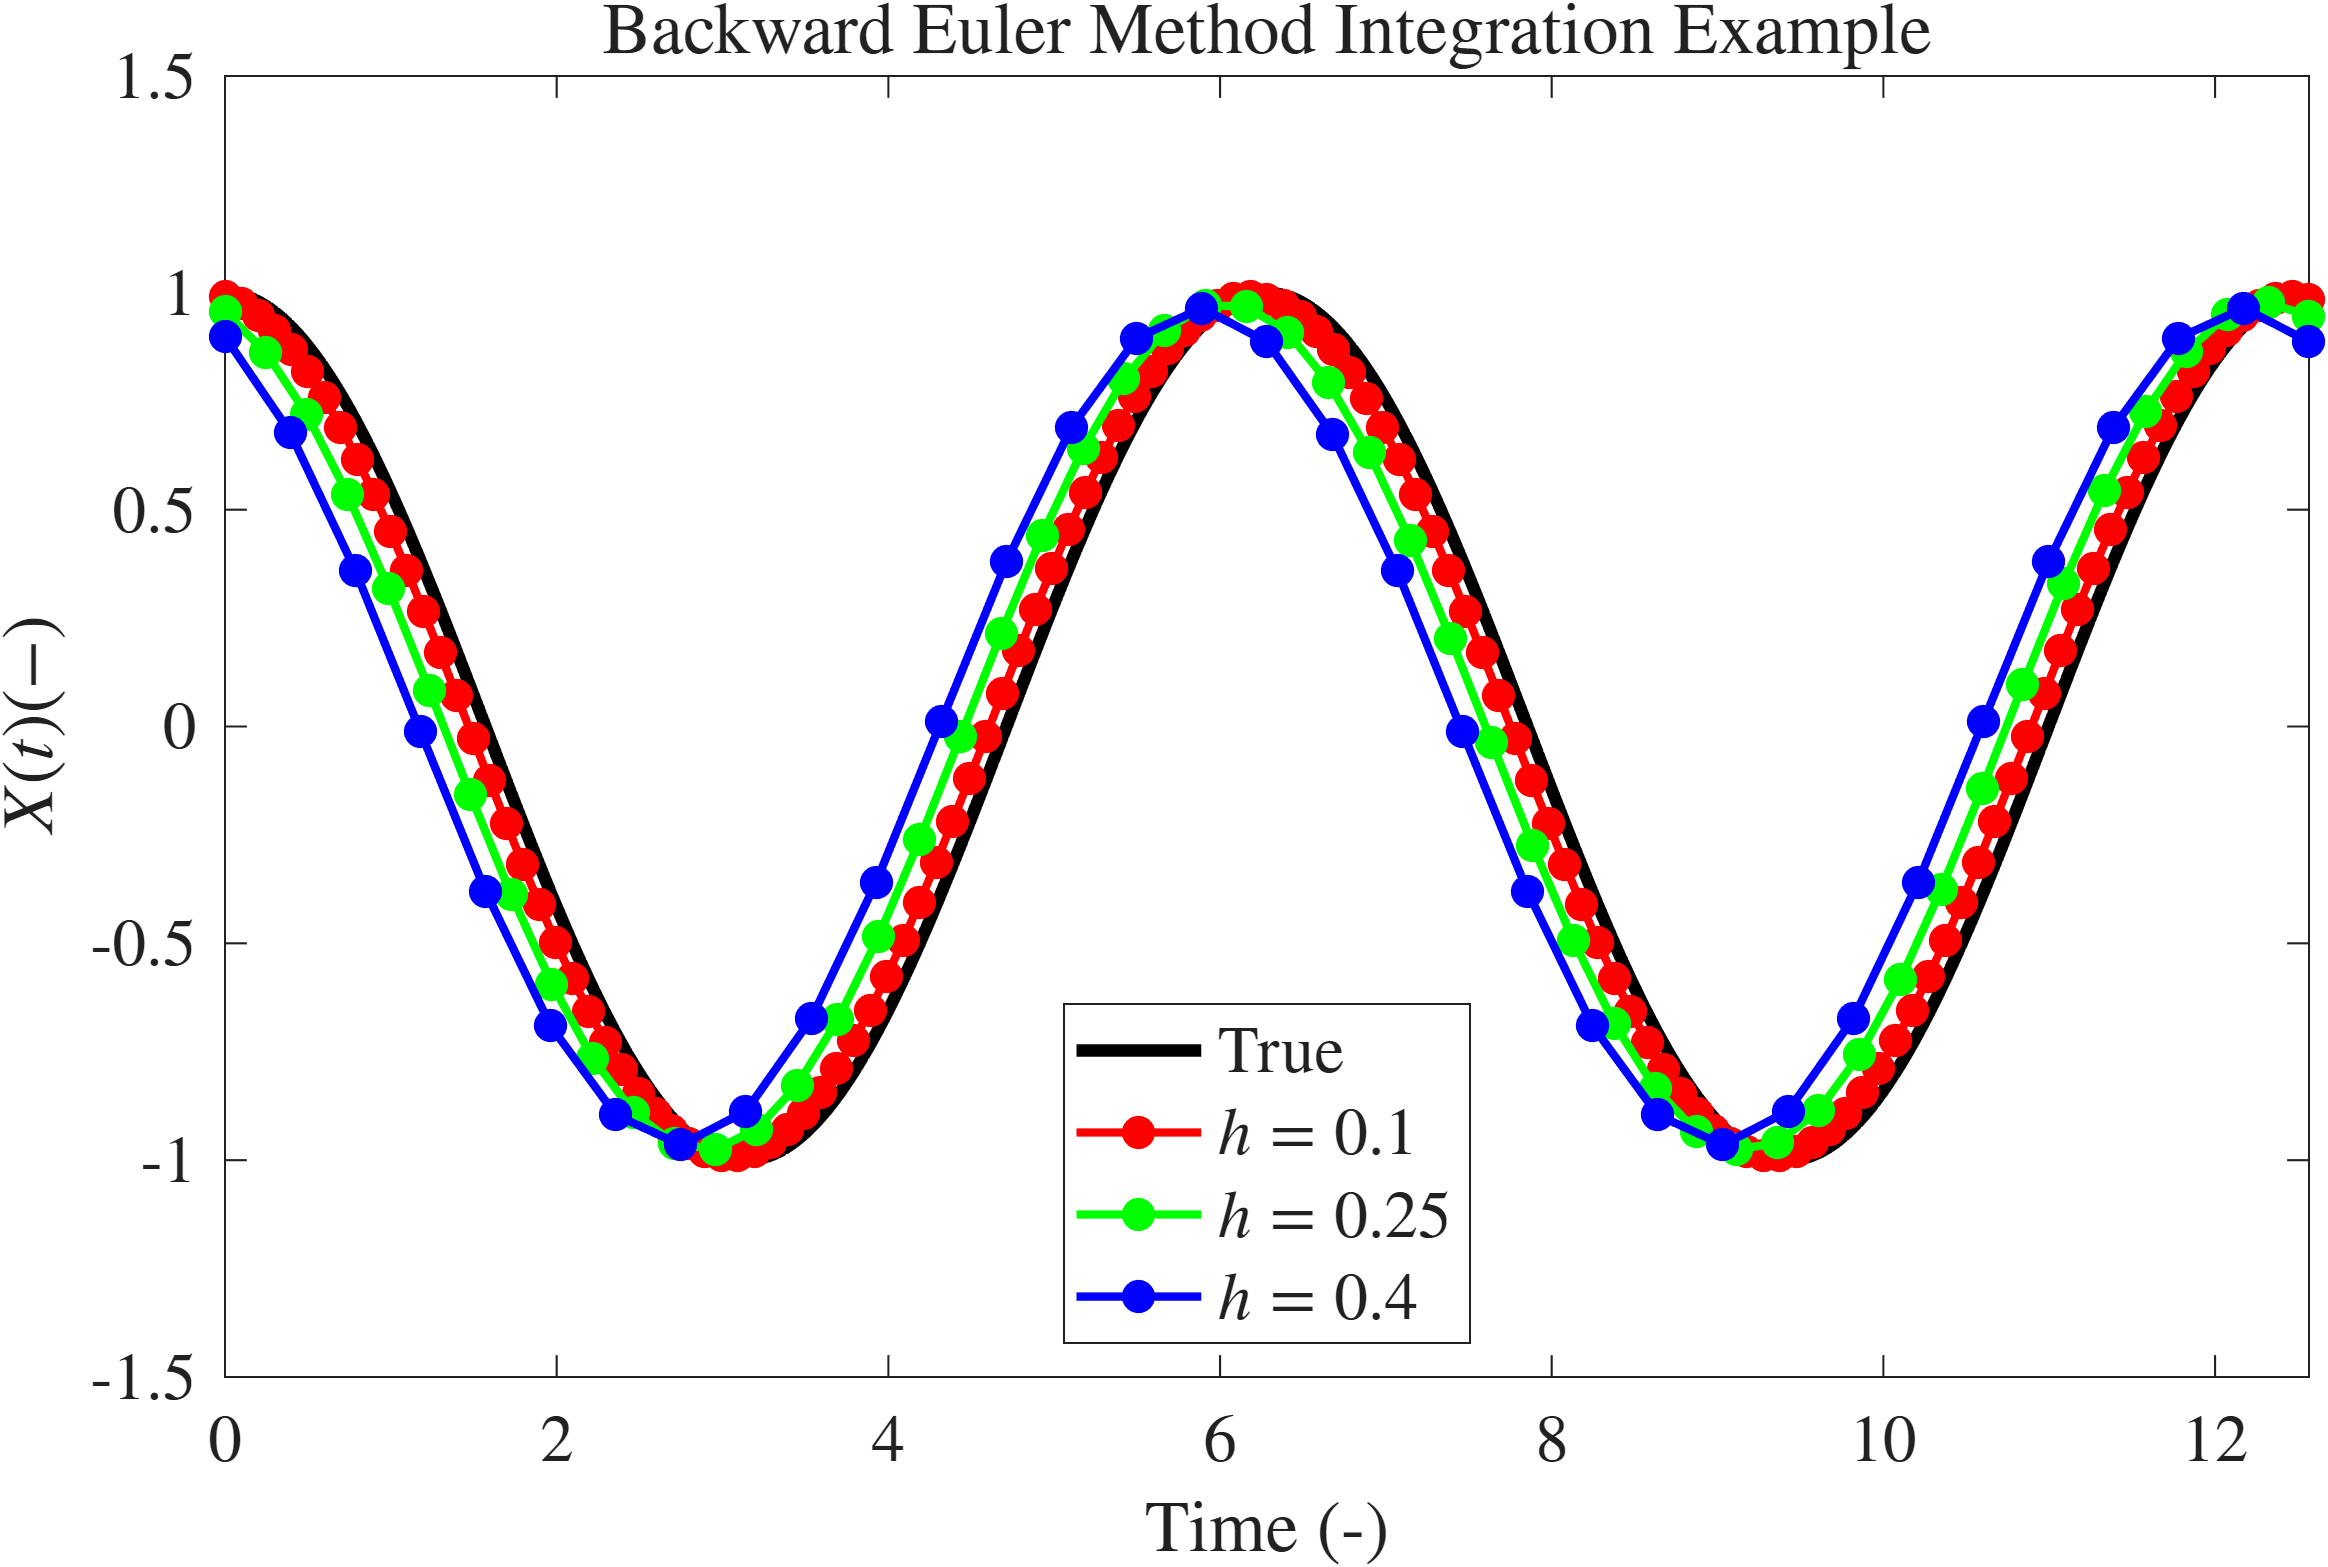
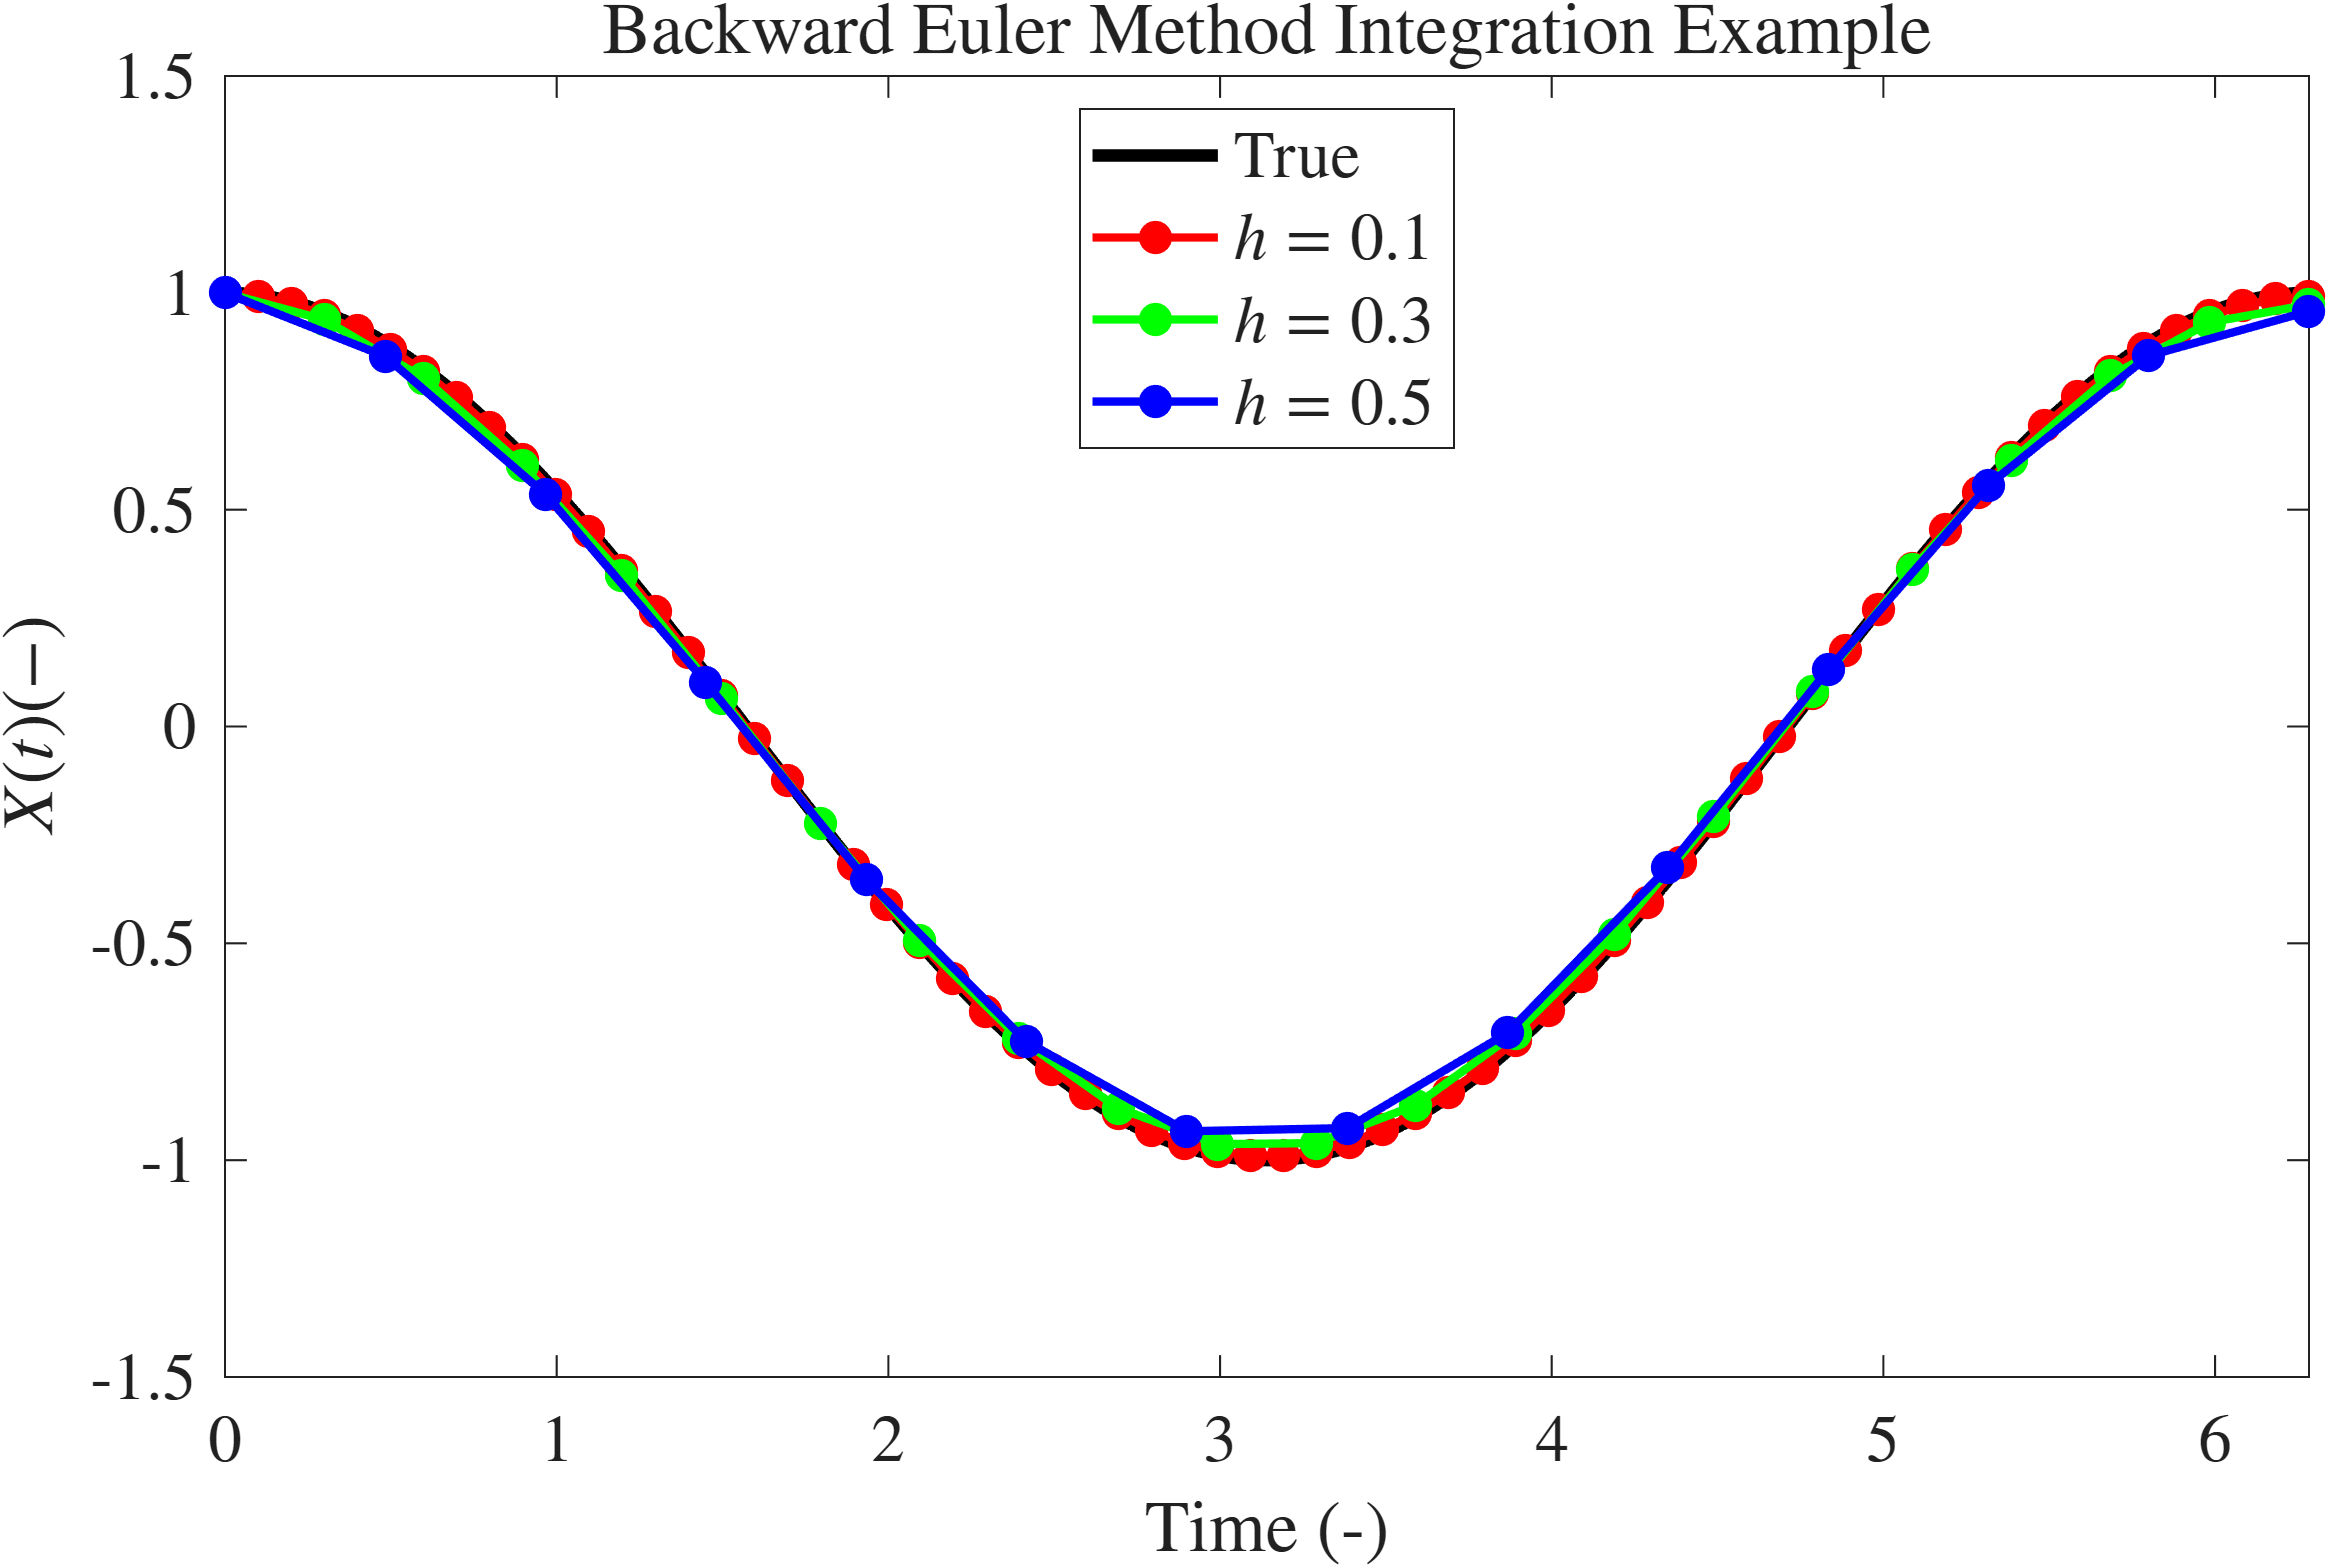
fixed up plots pt 2

diff --git a/implicit_midpoint_fixed_step_integration.m b/implicit_midpoint_fixed_step_integration.m
@@ -12,7 +12,7 @@
 %X_list: the vector of X, [X0';X1';X2';...;(X_end)'] at each time step
 %h_avg: the average step size
 %num_evals: total number of calls made to rate_func_in during the integration
-function [t_list,X_list,h_avg, num_evals] = implicit_midpoint_fixed_step_integration(rate_func_in,tspan,X0,h_ref)
+function [t_list,X_list,h_avg, num_evals] = implicit_midpoint_fixed_step_integration_test(rate_func_in,tspan,X0,h_ref)
     n_steps = ceil((tspan(2)-tspan(1))/h_ref);
 
     h_avg = (tspan(2) - tspan(1))/n_steps;
@@ -31,27 +31,27 @@ end
 
 
 
-% [t_list_small, X_list_small, h_avg, small_num_evals] = implicit_midpoint_fixed_step_integration_test(@rate_func01, [0,4*pi], 1, 0.1);
-% [t_list_med, X_list_med, h_avg, med_num_evals] = implicit_midpoint_fixed_step_integration_test(@rate_func01, [0,4*pi], 1, 0.25);
-% [t_list_large, X_list_large, h_avg, large_num_evals] = implicit_midpoint_fixed_step_integration_test(@rate_func01, [0,4*pi], 1, 0.4);
-% 
-% figure();
+[t_list_small, X_list_small, h_avg, small_num_evals] = implicit_midpoint_fixed_step_integration_test(@rate_func01, [0,2*pi], 1, 0.1);
+[t_list_med, X_list_med, h_avg, med_num_evals] = implicit_midpoint_fixed_step_integration_test(@rate_func01, [0,2*pi], 1, 0.5);
+[t_list_large, X_list_large, h_avg, large_num_evals] = implicit_midpoint_fixed_step_integration_test(@rate_func01, [0,2*pi], 1, 0.9);
+
+figure();
 % set(f, "interpreter", "latex")
-% t_space = linspace(0,4*pi,2*pi/0.01);
-% true_sol = cos(t_space);
-% plot(t_space, true_sol, LineWidth=3, Color="k")
-% hold on
-% plot(t_list_small, X_list_small, "-o",MarkerFaceColor='r',LineWidth=2, Color="r")
-% plot(t_list_med, X_list_med, "-o", MarkerFaceColor='g',LineWidth=2, Color="g")
-% plot(t_list_large, X_list_large, "-o", MarkerFaceColor='b',LineWidth=2, Color="b")
-% hold off
-% legend(["True","$h = 0.1$", "$h = 0.25$", "$h = 0.4$"], Interpreter="latex", Location="south", FontSize=16)
-% xlabel("Time (-)", Interpreter="latex", FontSize=16)
-% ylabel("$X(t) (-)$", Interpreter="latex", FontSize=16)
-% axis([0 4*pi -1.5 1.5])
-% title("Implicit Midpoint Method Integration Example", Interpreter='latex', FontSize=18)
-% ax = gca;
-% ax.FontSize = 16;
-% ax.XAxis.TickLabelInterpreter = 'Latex';
-% ax.YAxis.TickLabelInterpreter = 'Latex';
-% exportgraphics(gca, 'plots/implicit_midpoint.png', 'Resolution',300)
+t_space = linspace(0,2*pi,2*pi/0.01);
+true_sol = cos(t_space);
+plot(t_space, true_sol, LineWidth=3, Color="k")
+hold on
+plot(t_list_small, X_list_small, "-o",MarkerFaceColor='r',LineWidth=2, Color="r")
+plot(t_list_med, X_list_med, "-o", MarkerFaceColor='g',LineWidth=2, Color="g")
+plot(t_list_large, X_list_large, "-o", MarkerFaceColor='b',LineWidth=2, Color="b")
+hold off
+legend(["True","$h = 0.1$", "$h = 0.5$", "$h = 0.9$"], Interpreter="latex", Location="north", FontSize=16)
+xlabel("Time (-)", Interpreter="latex", FontSize=16)
+ylabel("$X(t) (-)$", Interpreter="latex", FontSize=16)
+axis([0 2*pi -1.5 1.5])
+title("Implicit Midpoint Method Integration Example", Interpreter='latex', FontSize=18)
+ax = gca;
+ax.FontSize = 16;
+ax.XAxis.TickLabelInterpreter = 'Latex';
+ax.YAxis.TickLabelInterpreter = 'Latex';
+exportgraphics(gca, 'plots/implicit_midpoint.png', 'Resolution',300)

diff --git a/backward_euler_fixed_step_integration.m b/backward_euler_fixed_step_integration.m
@@ -29,15 +29,15 @@ function [t_list,X_list,h_avg, num_evals] = backward_euler_fixed_step_integratio
     end
 end
 
+
 % 
-% 
-% [t_list_small, X_list_small, h_avg, small_num_evals] = backward_euler_fixed_step_integration_test(@rate_func01, [0,4*pi], 1, 0.1);
-% [t_list_med, X_list_med, h_avg, med_num_evals] = backward_euler_fixed_step_integration_test(@rate_func01, [0,4*pi], 1, 0.25);
-% [t_list_large, X_list_large, h_avg, large_num_evals] = backward_euler_fixed_step_integration_test(@rate_func01, [0,4*pi], 1, 0.4);
+% [t_list_small, X_list_small, h_avg, small_num_evals] = backward_euler_fixed_step_integration_test(@rate_func01, [0,2*pi], 1, 0.1);
+% [t_list_med, X_list_med, h_avg, med_num_evals] = backward_euler_fixed_step_integration_test(@rate_func01, [0,2*pi], 1, 0.3);
+% [t_list_large, X_list_large, h_avg, large_num_evals] = backward_euler_fixed_step_integration_test(@rate_func01, [0,2*pi], 1, 0.5);
 % 
 % figure();
-% % set(f, "interpreter", "latex")
-% t_space = linspace(0,4*pi,2*pi/0.01);
+% set(f, "interpreter", "latex")
+% t_space = linspace(0,2*pi,2*pi/0.01);
 % true_sol = cos(t_space);
 % plot(t_space, true_sol, LineWidth=3, Color="k")
 % hold on
@@ -45,10 +45,10 @@ end
 % plot(t_list_med, X_list_med, "-o", MarkerFaceColor='g',LineWidth=2, Color="g")
 % plot(t_list_large, X_list_large, "-o", MarkerFaceColor='b',LineWidth=2, Color="b")
 % hold off
-% legend(["True","$h = 0.1$", "$h = 0.25$", "$h = 0.4$"], Interpreter="latex", Location="south", FontSize=16)
+% legend(["True","$h = 0.1$", "$h = 0.3$", "$h = 0.5$"], Interpreter="latex", Location="north", FontSize=16)
 % xlabel("Time (-)", Interpreter="latex", FontSize=16)
 % ylabel("$X(t) (-)$", Interpreter="latex", FontSize=16)
-% axis([0 4*pi -1.5 1.5])
+% axis([0 2*pi -1.5 1.5])
 % title("Backward Euler Method Integration Example", Interpreter='latex', FontSize=18)
 % ax = gca;
 % ax.FontSize = 16;

diff --git a/explicit_midpoint_fixed_step_integration.m b/explicit_midpoint_fixed_step_integration.m
@@ -28,15 +28,15 @@ function [t_list,X_list,h_avg, num_evals] = explicit_midpoint_fixed_step_integra
 
 end
 
-% 
-% [t_list_small, X_list_small, h_avg, num_evals] = explicit_midpoint_fixed_step_integration_test(@rate_func01, [0,4*pi], 1, 0.1);
-% [t_list_med, X_list_med, h_avg, num_evals] = explicit_midpoint_fixed_step_integration_test(@rate_func01, [0,4*pi], 1, 0.25);
-% [t_list_large, X_list_large, h_avg, num_evals] = explicit_midpoint_fixed_step_integration_test(@rate_func01, [0,4*pi], 1, 0.4);
+
+% [t_list_small, X_list_small, h_avg, num_evals] = explicit_midpoint_fixed_step_integration_test(@rate_func01, [0,2*pi], 1, 0.1);
+% [t_list_med, X_list_med, h_avg, num_evals] = explicit_midpoint_fixed_step_integration_test(@rate_func01, [0,2*pi], 1, 0.3);
+% [t_list_large, X_list_large, h_avg, num_evals] = explicit_midpoint_fixed_step_integration_test(@rate_func01, [0,2*pi], 1, 0.42);
 % 
 % 
 % figure();
-% %set(f, "interpreter", "latex")
-% t_space = linspace(0,4*pi,2*pi/0.01);
+% set(f, "interpreter", "latex")
+% t_space = linspace(0,2*pi,2*pi/0.01);
 % true_sol = cos(t_space);
 % plot(t_space, true_sol, LineWidth=3, Color="k")
 % hold on
@@ -44,10 +44,10 @@ end
 % plot(t_list_med, X_list_med, "-o", MarkerFaceColor='g',LineWidth=2, Color="g")
 % plot(t_list_large, X_list_large, "-o", MarkerFaceColor='b',LineWidth=2, Color="b")
 % hold off
-% legend(["True","$h = 0.1$", "$h = 0.25$", "$h = 0.4$"], Interpreter="latex", Location="south", FontSize=16)
+% legend(["True","$h = 0.1$", "$h = 0.3$", "$h = 0.42$"], Interpreter="latex", Location="north", FontSize=16)
 % xlabel("Time (-)", Interpreter="latex", FontSize=16)
 % ylabel("$X(t) (-)$", Interpreter="latex", FontSize=16)
-% axis([0 4*pi -1.5 1.5])
+% axis([0 2*pi -1.5 1.5])
 % title("Explicit Midpoint Method Integration Example", Interpreter='latex', FontSize=18)
 % ax = gca;
 % ax.FontSize = 16;

diff --git a/forward_euler_fixed_step_integration.m b/forward_euler_fixed_step_integration.m
@@ -28,14 +28,14 @@ function [t_list,X_list,h_avg, num_evals] = forward_euler_fixed_step_integration
  
 
 end
-
-% [t_list_small, X_list_small, h_avg, num_evals] = forward_euler_fixed_step_integration_test(@rate_func01, [0,4*pi], 1, 0.1);
-% [t_list_med, X_list_med, h_avg, num_evals] = forward_euler_fixed_step_integration_test(@rate_func01, [0,4*pi], 1, 0.25);
-% [t_list_large, X_list_large, h_avg, num_evals] = forward_euler_fixed_step_integration_test(@rate_func01, [0,4*pi], 1, 0.4);
+% 
+% [t_list_small, X_list_small, h_avg, num_evals] = forward_euler_fixed_step_integration_test(@rate_func01, [0,2*pi], 1, 0.1);
+% [t_list_med, X_list_med, h_avg, num_evals] = forward_euler_fixed_step_integration_test(@rate_func01, [0,2*pi], 1, 0.3);
+% [t_list_large, X_list_large, h_avg, num_evals] = forward_euler_fixed_step_integration_test(@rate_func01, [0,2*pi], 1, 0.42);
 % 
 % figure();
-% % set(f, "interpreter", "latex")
-% t_space = linspace(0,4*pi,2*pi/0.01);
+% set(f, "interpreter", "latex")
+% t_space = linspace(0,2*pi,2*pi/0.01);
 % true_sol = cos(t_space);
 % plot(t_space, true_sol, LineWidth=3, Color="k")
 % hold on
@@ -43,10 +43,10 @@ end
 % plot(t_list_med, X_list_med, "-o", MarkerFaceColor='g',LineWidth=2, Color="g")
 % plot(t_list_large, X_list_large, "-o", MarkerFaceColor='b',LineWidth=2, Color="b")
 % hold off
-% legend(["True","$h = 0.1$", "$h = 0.25$", "$h = 0.4$"], Interpreter="latex", Location="south", FontSize=16)
+% legend(["True","$h = 0.1$", "$h = 0.3$", "$h = 0.42$"], Interpreter="latex", Location="north", FontSize=16)
 % xlabel("Time (-)", Interpreter="latex", FontSize=16)
 % ylabel("$X(t) (-)$", Interpreter="latex", FontSize=16)
-% axis([0 4*pi -1.5 1.5])
+% axis([0 2*pi -1.5 1.5])
 % title("Forward Euler Method Integration Example", Interpreter='latex', FontSize=18)
 % ax = gca;
 % ax.FontSize = 16;
